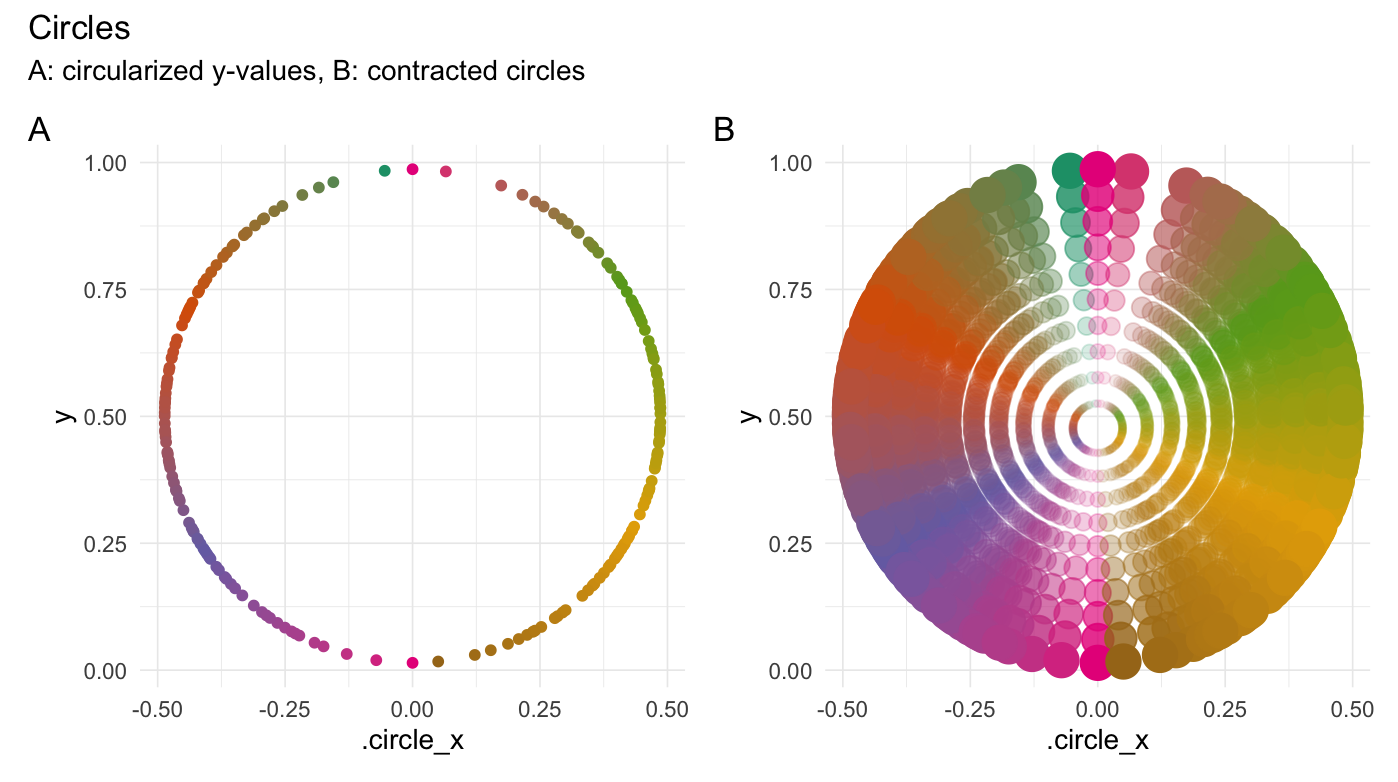
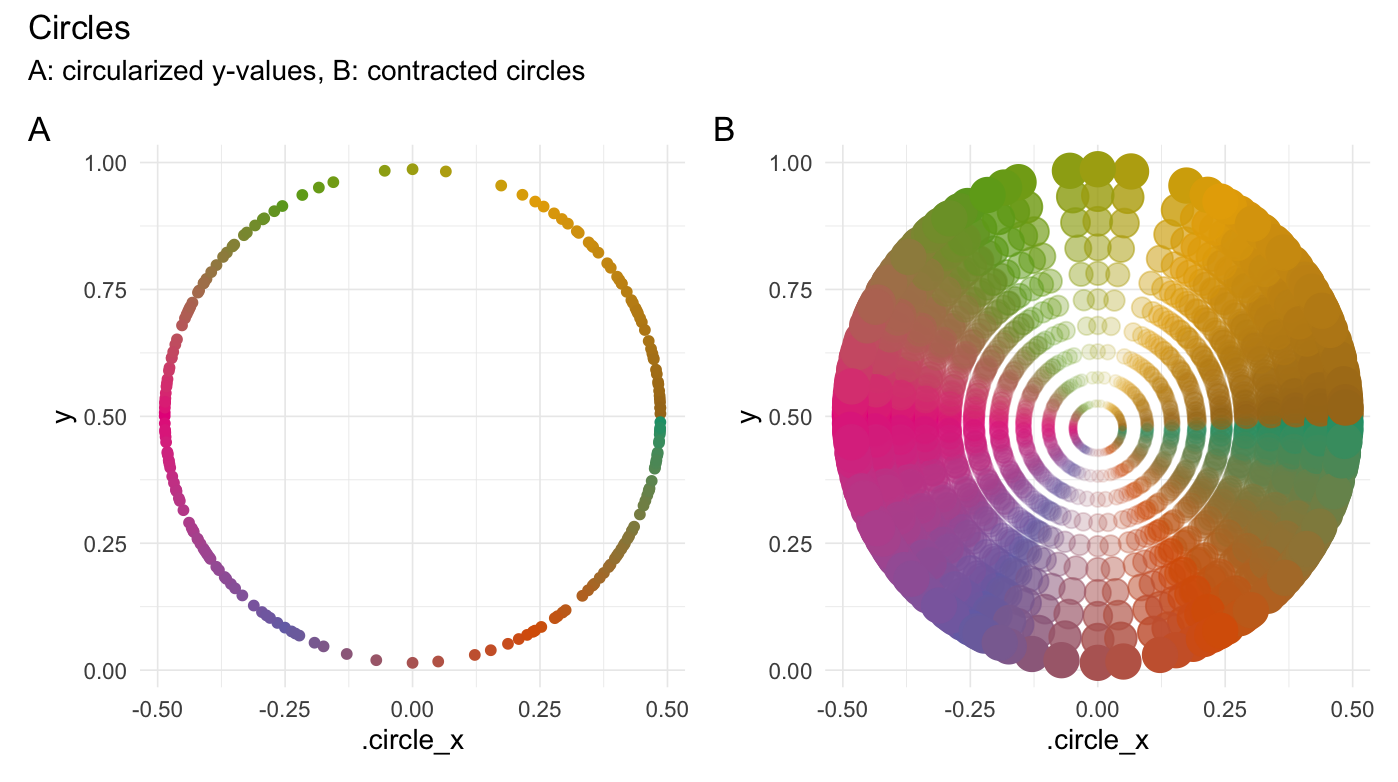
New angle computation in readme

diff --git a/README.md b/README.md
@@ -85,6 +85,7 @@ origin.
 | Function               | Description                                                          |
 | :--------------------- | :------------------------------------------------------------------- |
 | `distance()`           | Calculates distance to an origin.                                    |
+| `angle()`              | Calculates angle between points and an origin.                       |
 | `create_dimming_fn()`  | Creates function for controlling dimming values with `dim_values()`. |
 | `create_origin_fn()`   | Creates function for finding origin coordinates (like `centroid()`). |
 | `centroid()`           | Calculates the mean of each supplied vector.                         |
@@ -576,19 +577,19 @@ square(runif(200))
 
 ``` r
 circularize(runif(200))
-#> # A tibble: 200 x 3
-#>    Value .circle_x .degrees
-#>    <dbl>     <dbl>    <dbl>
-#>  1 0.888     0.315    141. 
-#>  2 0.686    -0.463    292. 
-#>  3 0.630    -0.482    285. 
-#>  4 0.751     0.432    120. 
-#>  5 0.918     0.274    147. 
-#>  6 0.360    -0.479    254. 
-#>  7 0.808    -0.393    308. 
-#>  8 0.213     0.407     54.8
-#>  9 0.140     0.344     43.6
-#> 10 0.299     0.456     66.0
+#> # A tibble: 200 x 4
+#>    Value .circle_x .degrees .origin  
+#>    <dbl>     <dbl>    <dbl> <list>   
+#>  1 0.888     0.315     50.9 <dbl [2]>
+#>  2 0.686    -0.463    158.  <dbl [2]>
+#>  3 0.630    -0.482    165.  <dbl [2]>
+#>  4 0.751     0.432     30.0 <dbl [2]>
+#>  5 0.918     0.274     56.7 <dbl [2]>
+#>  6 0.360    -0.479    196.  <dbl [2]>
+#>  7 0.808    -0.393    142.  <dbl [2]>
+#>  8 0.213     0.407    325.  <dbl [2]>
+#>  9 0.140     0.344    314.  <dbl [2]>
+#> 10 0.299     0.456    336.  <dbl [2]>
 #> # … with 190 more rows
 ```
 
